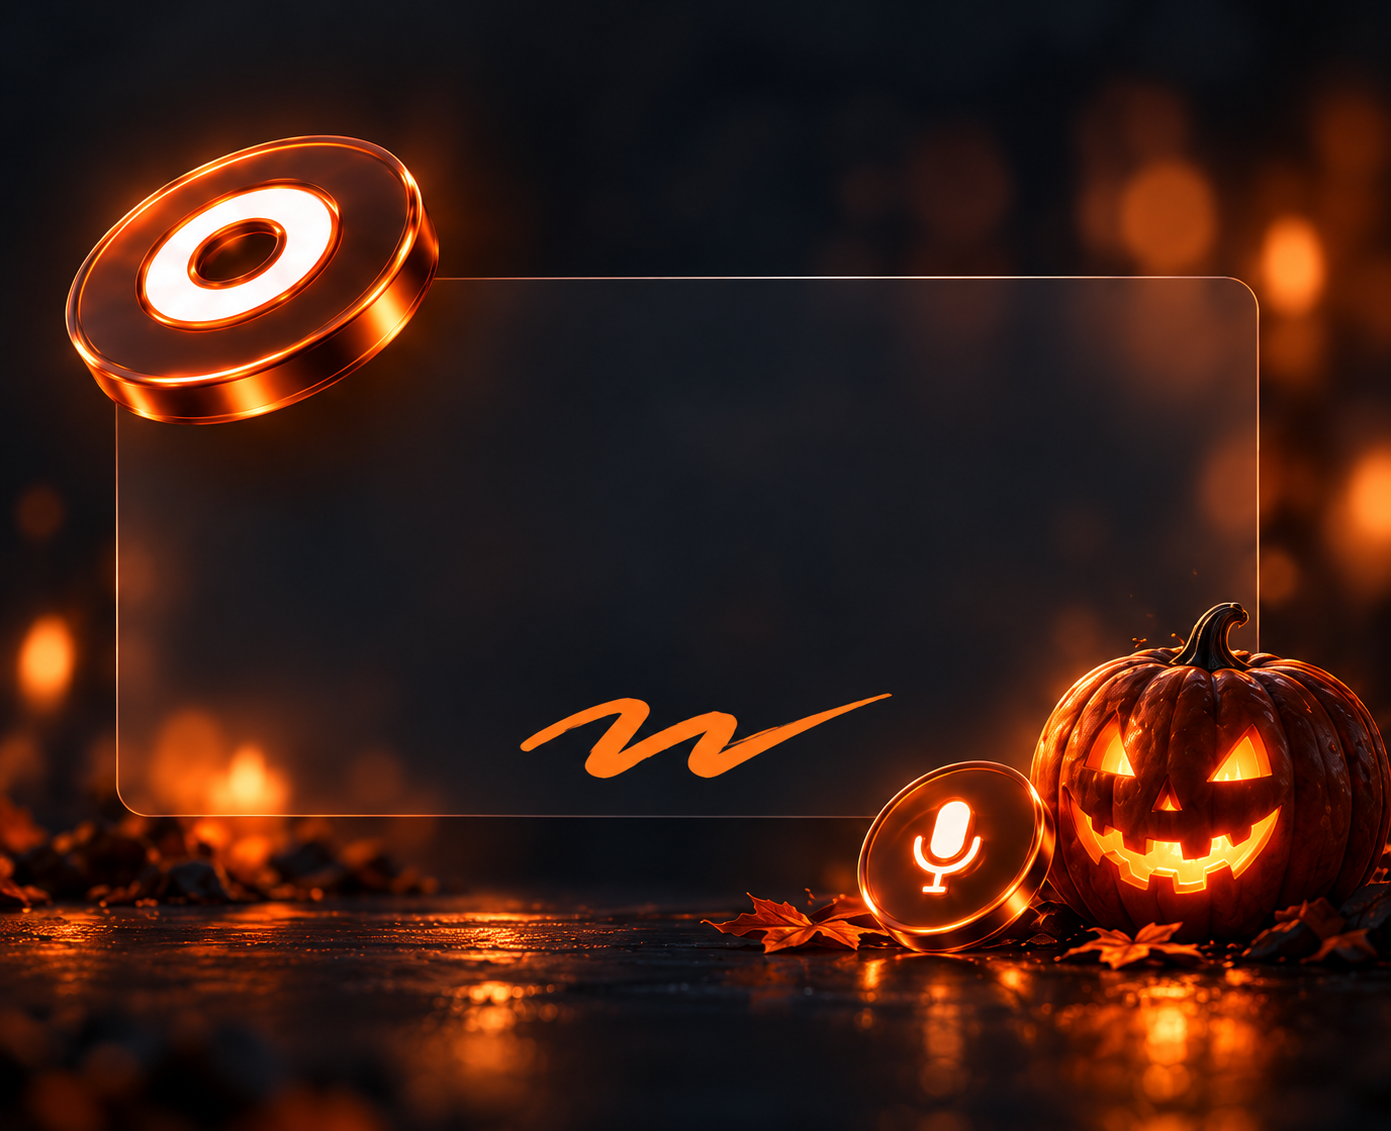
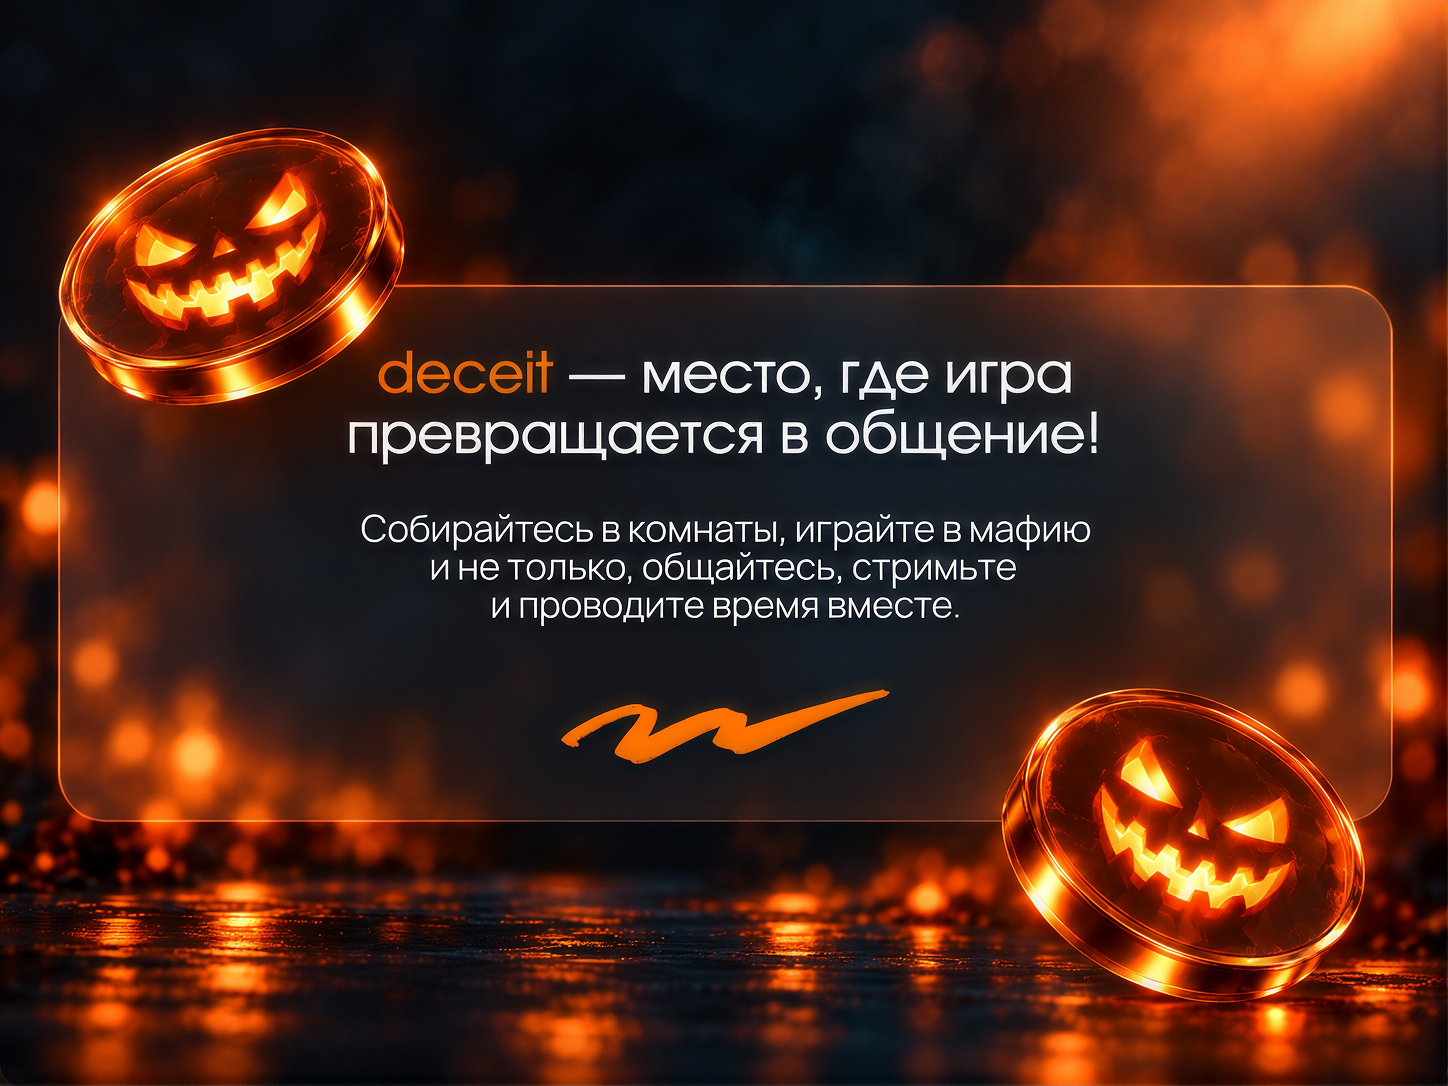
85 halloween redesign homepage

diff --git a/frontend/halloween/preview.html b/frontend/halloween/preview.html
@@ -4,9 +4,9 @@
 <style>
 @font-face{font-family:Involve-Regular;src:url("../src/assets/fonts/Involve-Regular.ttf")}@font-face{font-family:Involve-Medium;src:url("../src/assets/fonts/Involve-Medium.ttf")}@font-face{font-family:Hauora-Regular;src:url("../src/assets/fonts/Hauora-Regular.ttf")}@font-face{font-family:Hauora-Bold;src:url("../src/assets/fonts/Hauora-Bold.ttf")}
 *{box-sizing:border-box}body{margin:0;padding:28px;background:#0a0c10;color:#fff;font-family:Hauora-Regular,Arial,sans-serif}header{max-width:1234px;margin:0 auto 24px}h1{font-family:Involve-Medium,Arial,sans-serif;font-size:28px;font-weight:500;margin:0 0 8px}header p{margin:0;color:#aeb5bd;font-size:16px;line-height:1.5}.gallery{display:grid;grid-template-columns:repeat(2,607px);gap:22px 20px;max-width:1234px;margin:auto}h2{font-size:15px;font-weight:400;color:#b8c1ca;margin:0 0 10px}.home-carousel{width:607px;height:494px;position:relative;overflow:hidden;border-radius:24px}.slide{position:absolute;inset:0}.background-image{position:absolute;inset:0;width:607px;height:494px;border-radius:24px}.chip{position:absolute;top:24px;left:24px;z-index:5;padding:8px 12px;border:1px solid #ffffff45;border-radius:12px;background:#ffffff12;backdrop-filter:blur(4px);font-size:16px;line-height:16px;color:#ddd}.carousel-controls{position:absolute;z-index:5;bottom:16px;left:24px;right:24px;display:flex;align-items:center;justify-content:space-between;height:40px}.nav-btn{display:flex;align-items:center;justify-content:center;width:40px;height:40px;border-radius:12px;font:25px Arial;color:white}.carousel-dots{display:flex;align-items:center;gap:4px}.carousel-dot{width:4px;height:4px;border-radius:99px;background:#c5c2cb}.carousel-dot.active{width:64px}.install{position:absolute;z-index:5;left:24px;bottom:88px;background:#ff790d;color:#20130c;border-radius:99px;padding:10px 17px;font-size:18px}.banners{display:flex;flex-direction:column;gap:20px}.right-extra{position:relative;overflow:hidden;border-radius:24px;width:607px;padding:24px;display:flex;align-items:center}.right-extra--primary{height:158px}.right-extra--secondary{height:128px}.right-extra img{position:absolute;inset:0;width:100%;height:100%;object-fit:cover}.right-extra-content{position:relative;z-index:1;display:flex;flex-direction:column;align-items:flex-start;gap:16px}.right-extra-copy-subscription{width:275px;font-family:Involve-Medium;font-size:24px;line-height:26px;letter-spacing:-.48px}.right-extra-copy-accent{margin-left:8px}.right-extra-copy-connect{font-family:Hauora-Bold;font-size:16px;line-height:18px;letter-spacing:-.32px}.right-extra-btn{width:40px;height:40px;border:1px solid #5aa4a5;border-radius:12px;display:grid;place-items:center;font:20px Arial;background:#0a0d12aa}.right-extra-btn span{background:white;color:#15171b;border-radius:99px;width:17px;height:17px;font-size:16px;line-height:17px;text-align:center}@media(max-width:1280px){.gallery{grid-template-columns:607px;justify-content:center}header{max-width:607px}}@media(max-width:660px){body{padding:16px}.gallery{justify-content:start}header{min-width:607px}}
-</style></head><body><header><h1>Выбранный комплект Halloween</h1><p>Слайды 1 и 5, подписка — серия 2. Слайды 2, 3 и 4, обратная связь — серия 3.<br>Изображения с отдельным текстовым слоем; размер каждого слайда — 607 × 494.</p></header><main class="home-page gallery">
-<section><h2>1 · Знакомство — серия 2</h2><div class="home-carousel"><article class="slide slide--1"><img class="background-image" src="./carousel-image1.png" alt=""><div class="seasonal-copy seasonal-copy--1"><p class="seasonal-copy-title"><span class="seasonal-copy-accent">deceit</span> — место, где игра<br>превращается в общение!</p><p class="seasonal-copy-body">Собирайтесь в комнаты, играйте в мафию<br>и не только, общайтесь, стримьте<br>и проводите время вместе.</p></div></article><div class="carousel-controls" aria-hidden="true"><span class="nav-btn">←</span><div class="carousel-dots"><span class="carousel-dot active"></span><span class="carousel-dot"></span><span class="carousel-dot"></span><span class="carousel-dot"></span><span class="carousel-dot"></span></div><span class="nav-btn">→</span></div></div></section>
-<section><h2>2 · Трансляции — серия 3</h2><div class="home-carousel"><article class="slide slide--2"><img class="background-image" src="./carousel-image2.png" alt=""><div class="seasonal-copy seasonal-copy--2"><p class="seasonal-copy-title">Проводите время <span class="seasonal-copy-accent">вместе</span> —<br>от игр до фильмов</p><p class="seasonal-copy-meta">1000+ регистраций на платформе</p></div><span class="chip">Трансляции</span></article><div class="carousel-controls" aria-hidden="true"><span class="nav-btn">←</span><div class="carousel-dots"><span class="carousel-dot"></span><span class="carousel-dot active"></span><span class="carousel-dot"></span><span class="carousel-dot"></span><span class="carousel-dot"></span></div><span class="nav-btn">→</span></div></div></section>
+</style></head><body><header><h1>Выбранный комплект Halloween</h1><p>Слайды 1 и 2 — новые изображения пользователя со встроенным текстом. Слайд 5 и подписка — серия 2; слайды 3 и 4, обратная связь — серия 3.<br>Слайды 1 и 2 вписаны целиком без обрезки; размер области каждого слайда — 607 × 494.</p></header><main class="home-page gallery">
+<section><h2>1 · Знакомство — изображение пользователя</h2><div class="home-carousel"><article class="slide slide--1"><img class="background-image" src="./carousel-image1.png" alt="deceit — место, где игра превращается в общение! Собирайтесь в комнаты, играйте в мафию и не только, общайтесь, стримьте и проводите время вместе."><div class="seasonal-copy seasonal-copy--1" aria-hidden="true"></div></article><div class="carousel-controls" aria-hidden="true"><span class="nav-btn">←</span><div class="carousel-dots"><span class="carousel-dot active"></span><span class="carousel-dot"></span><span class="carousel-dot"></span><span class="carousel-dot"></span><span class="carousel-dot"></span></div><span class="nav-btn">→</span></div></div></section>
+<section><h2>2 · Трансляции — изображение пользователя</h2><div class="home-carousel"><article class="slide slide--2"><img class="background-image" src="./carousel-image2.png" alt="Проводите время вместе — от игр до фильмов. 1000+ регистраций на платформе."><div class="seasonal-copy seasonal-copy--2" aria-hidden="true"></div><span class="chip">Трансляции</span></article><div class="carousel-controls" aria-hidden="true"><span class="nav-btn">←</span><div class="carousel-dots"><span class="carousel-dot"></span><span class="carousel-dot active"></span><span class="carousel-dot"></span><span class="carousel-dot"></span><span class="carousel-dot"></span></div><span class="nav-btn">→</span></div></div></section>
 <section><h2>3 · Статистика — серия 3</h2><div class="home-carousel"><article class="slide slide--3"><img class="background-image" src="./carousel-image3.png" alt=""><div class="seasonal-copy seasonal-copy--3"><p class="seasonal-copy-caption">Следи за своим уровнем<br>игры и <span class="seasonal-copy-accent">становись сильнее!</span></p></div><span class="chip">Статистика</span></article><div class="carousel-controls" aria-hidden="true"><span class="nav-btn">←</span><div class="carousel-dots"><span class="carousel-dot"></span><span class="carousel-dot"></span><span class="carousel-dot active"></span><span class="carousel-dot"></span><span class="carousel-dot"></span></div><span class="nav-btn">→</span></div></div></section>
 <section><h2>4 · Комьюнити — серия 3</h2><div class="home-carousel"><article class="slide slide--4"><img class="background-image" src="./carousel-image4.png" alt=""><div class="seasonal-copy seasonal-copy--4"><p class="seasonal-copy-caption">Пространство для <span class="seasonal-copy-accent">общения</span><br>и новых знакомств!</p></div><span class="chip">Комьюнити</span></article><div class="carousel-controls" aria-hidden="true"><span class="nav-btn">←</span><div class="carousel-dots"><span class="carousel-dot"></span><span class="carousel-dot"></span><span class="carousel-dot"></span><span class="carousel-dot active"></span><span class="carousel-dot"></span></div><span class="nav-btn">→</span></div></div></section>
 <section><h2>5 · Web App — серия 2</h2><div class="home-carousel"><article class="slide slide--5"><img class="background-image" src="./carousel-image5.png" alt=""><div class="seasonal-copy seasonal-copy--5"><p class="seasonal-copy-caption">Запусти платформу как<br><span class="seasonal-copy-accent">отдельное</span> приложение</p></div><span class="chip">Web App</span><span class="install">Установить</span></article><div class="carousel-controls" aria-hidden="true"><span class="nav-btn">←</span><div class="carousel-dots"><span class="carousel-dot"></span><span class="carousel-dot"></span><span class="carousel-dot"></span><span class="carousel-dot"></span><span class="carousel-dot active"></span></div><span class="nav-btn">→</span></div></div></section>

diff --git a/frontend/halloween/home-options.html b/frontend/halloween/home-options.html
@@ -71,6 +71,7 @@ body{margin:0;background:#090e11}
 #home-options .home-carousel{width:607px;height:494px;position:relative;overflow:hidden;border-radius:24px;flex:none}
 #home-options .slide{position:absolute;inset:0}
 #home-options .background-image{position:absolute;inset:0;width:607px;height:494px;object-fit:cover;border-radius:24px}
+#home-options .slide:has(.seasonal-copy--1,.seasonal-copy--2) .background-image{object-fit:contain}
 #home-options .chip{position:absolute;top:24px;left:24px;z-index:5;padding:8px 12px;border:1px solid #ffffff45;border-radius:12px;background:#ffffff12;backdrop-filter:blur(4px);font-size:16px;line-height:16px;color:#ddd}
 #home-options .carousel-controls{position:absolute;z-index:5;bottom:16px;left:24px;right:24px;display:flex;align-items:center;justify-content:space-between;height:40px}
 #home-options .nav-btn{display:flex;align-items:center;justify-content:center;width:40px;height:40px;border-radius:12px;border:0;font:25px Arial;color:white}
@@ -193,8 +194,8 @@ body{margin:0;background:#090e11}
       '<span class="room-cell owner"><img class="avatar" src="../src/assets/svg/iconDefaultAvatar.svg" alt="">' + r[2] + '</span><span class="occupancy">' + r[3] + '</span></button>';
   }).join('');
   var slides = [
-    { title: '', copy: '<p class="seasonal-copy-title"><span class="seasonal-copy-accent">deceit</span> — место, где игра<br>превращается в общение!</p><p class="seasonal-copy-body">Собирайтесь в комнаты, играйте в мафию<br>и не только, общайтесь, стримьте<br>и проводите время вместе.</p>' },
-    { title: 'Трансляции', copy: '<p class="seasonal-copy-title">Проводите время <span class="seasonal-copy-accent">вместе</span> —<br>от игр до фильмов</p><p class="seasonal-copy-meta">1000+ регистраций на платформе</p>' },
+    { title: '', copy: '', alt: 'deceit — место, где игра превращается в общение! Собирайтесь в комнаты, играйте в мафию и не только, общайтесь, стримьте и проводите время вместе.' },
+    { title: 'Трансляции', copy: '', alt: 'Проводите время вместе — от игр до фильмов. 1000+ регистраций на платформе.' },
     { title: 'Статистика', copy: '<p class="seasonal-copy-caption">Следи за своим уровнем<br>игры и <span class="seasonal-copy-accent">становись сильнее!</span></p>' },
     { title: 'Комьюнити', copy: '<p class="seasonal-copy-caption">Пространство для <span class="seasonal-copy-accent">общения</span><br>и новых знакомств!</p>' },
     { title: 'Web App', copy: '<p class="seasonal-copy-caption">Запусти платформу как<br><span class="seasonal-copy-accent">отдельное</span> приложение</p>' }
@@ -202,7 +203,7 @@ body{margin:0;background:#090e11}
   var activeSlide = 0;
   function renderSlide() {
     var s = slides[activeSlide];
-    root.querySelector('#slide-content').innerHTML = '<img class="background-image" src="./carousel-image' + (activeSlide + 1) + '.png" alt="">' +
+    root.querySelector('#slide-content').innerHTML = '<img class="background-image" src="./carousel-image' + (activeSlide + 1) + '.png" alt="' + (s.alt || '') + '">' +
       '<div class="seasonal-copy seasonal-copy--' + (activeSlide + 1) + '">' + s.copy + '</div>' +
       (s.title ? '<span class="chip">' + s.title + '</span>' : '') +
       (activeSlide === 4 ? '<button class="install" type="button">Установить</button>' : '');

diff --git a/frontend/halloween/theme.css b/frontend/halloween/theme.css
@@ -18,6 +18,16 @@ html[data-home-season="halloween"] .home-page .home-carousel .background-image {
   object-fit: cover;
 }
 
+/* These two supplied artworks already contain their copy; keep every edge visible. */
+html[data-home-season="halloween"] .home-page .home-carousel .slide:has(.seasonal-copy--1, .seasonal-copy--2) .background-image {
+  object-fit: contain;
+}
+
+html[data-home-season="halloween"] .home-page .home-carousel .seasonal-copy--1,
+html[data-home-season="halloween"] .home-page .home-carousel .seasonal-copy--2 {
+  display: none;
+}
+
 html[data-home-season="halloween"] .home-page .home-carousel .seasonal-copy {
   position: absolute;
   inset: 0;

diff --git a/frontend/halloween/prompts.md b/frontend/halloween/prompts.md
@@ -1,18 +1,22 @@
 # Выбранный комплект Halloween
 
-Использован встроенный image_gen. Серия1 исключена.
+Для исходного комплекта использован встроенный image_gen. Серия1 исключена. Позже первые два слайда заменены файлами пользователя без генерации и без редактирования текста (см. раздел замены ниже).
 
 | Ресурс | Выбор |
 |---|---|
-| Слайд1 | Серия2 |
-| Слайд2 | Серия3 |
+| Слайд1 | Новое прикреплённое изображение пользователя: две тыквенные монеты |
+| Слайд2 | Новое прикреплённое изображение пользователя: трансляции, регистрации и тыква |
 | Слайд3 | Серия3 |
 | Слайд4 | Серия3 |
 | Слайд5 | Серия2 |
 | Подписка | Серия2 |
 | Обратная связь | Серия3 |
 
-## Общий промпт
+## Замена первых двух слайдов
+
+Файл `codex-clipboard-8f43df6b-548e-46aa-82af-a47709071ab4.png` скопирован как `carousel-image1.png`; `codex-clipboard-b30a4365-9880-4b93-808f-3e6e387559cd.png` — как `carousel-image2.png`. Оба 1448×1086, сохранены побайтно, без image_gen и без изменения надписей. В `theme.css` скрыт повторный HTML-текст слайдов 1–2 и задано вписывание без обрезки. Промпты ниже для этих двух файлов относятся к прежним версиям; слайды 3–7 остаются прежними.
+
+## Общий промпт исходного комплекта
 
 Use case: precise-object-edit. Asset type: ONE final background artwork for an existing Russian gaming website, not a UI mockup, not a moodboard.
 Input image 1 is the user's SELECTED concept sheet and the edit target. Extract/reconstruct ONLY the specified panel at full quality as a standalone image. Preserve the selected panel's particular object shapes, material, angle, lighting, palette and mood as closely as possible. The user already selected this image; DO NOT invent a new visual direction. Input image 2 is the old live-site image; use it ONLY to understand the original near-square aspect ratio, brand logo identity and free-space requirements, do not transfer its old teal-purple palette.

diff --git a/frontend/halloween/README.md b/frontend/halloween/README.md
@@ -10,6 +10,8 @@
 
 Отдельно, по просьбе пользователя, `frontend/src/assets/images/killPlayer.png` заменён на постоянную иллюстрацию: мафиози в федоре, убитый игрок и бирюзовый призрак. Она используется и без Halloween и остаётся после отката темы. Для Halloween в этой папке находится другая версия `killPlayer.png`. Остальные исходные изображения в `frontend/src/assets/images/` сохранены.
 
+Первые два слайда `carousel-image1.png` и `carousel-image2.png` заменены прикреплёнными пользователем изображениями 1448×1086 без редактирования. Текст на них сохранён; повторный HTML-слой скрыт только для этих двух слайдов. Они вписываются целиком в карусель через `object-fit: contain`, поэтому края, монеты, тыква и надписи не обрезаются. Остальные слайды сохраняют прежние изображения и отдельный текстовый слой. Эти изменения целиком находятся в папке темы.
+
 В комнате сезонные изображения заменяют шесть игровых статусов, сохраняя прежние условия их показа:
 
 | Файл | Значение |
@@ -226,6 +228,7 @@ npm --prefix frontend run build
 - `vite-plugin.ts` — подключение этой папки к dev-серверу и сборке.
 - `check-home-season.mjs` — проверки включения темы, отключения и недоступных ресурсов.
 - `preview.html` — локальное превью комплекта; откройте файл в браузере.
+- `carousel-update-preview.png` — предпросмотр первых двух пользовательских изображений в области 607×494 с элементами навигации.
 - `prompts.md` — выбор серий и использованные промпты.
 - `rollback.patch` — готовые правки пяти старых файлов для полного отката.
 - `README.md` — эта инструкция.
